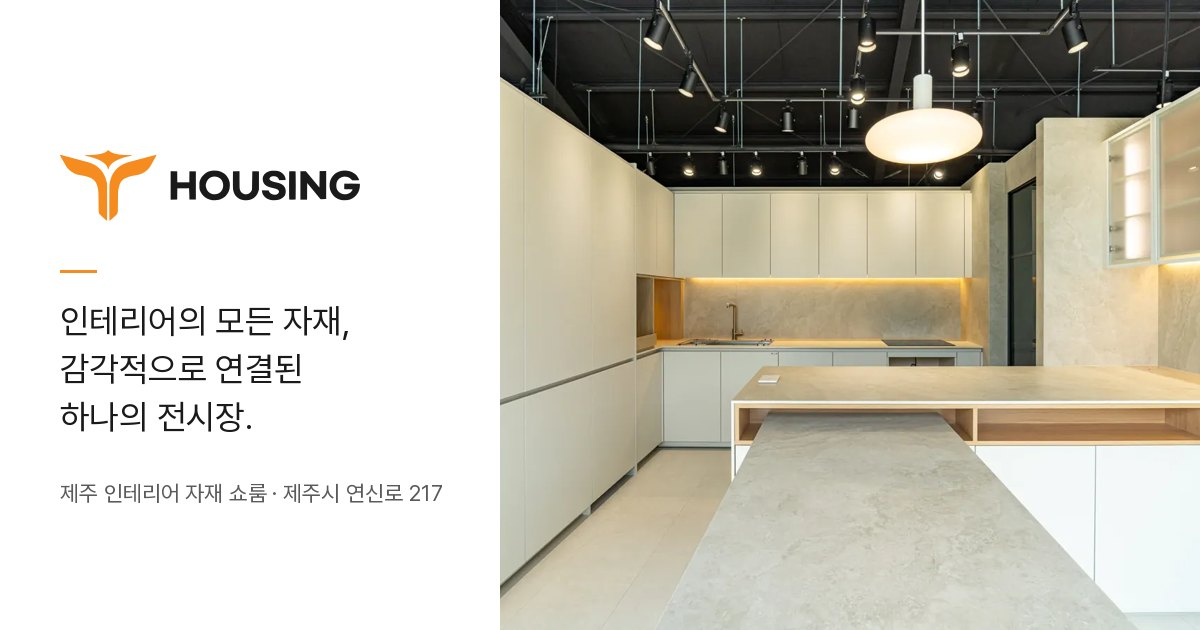
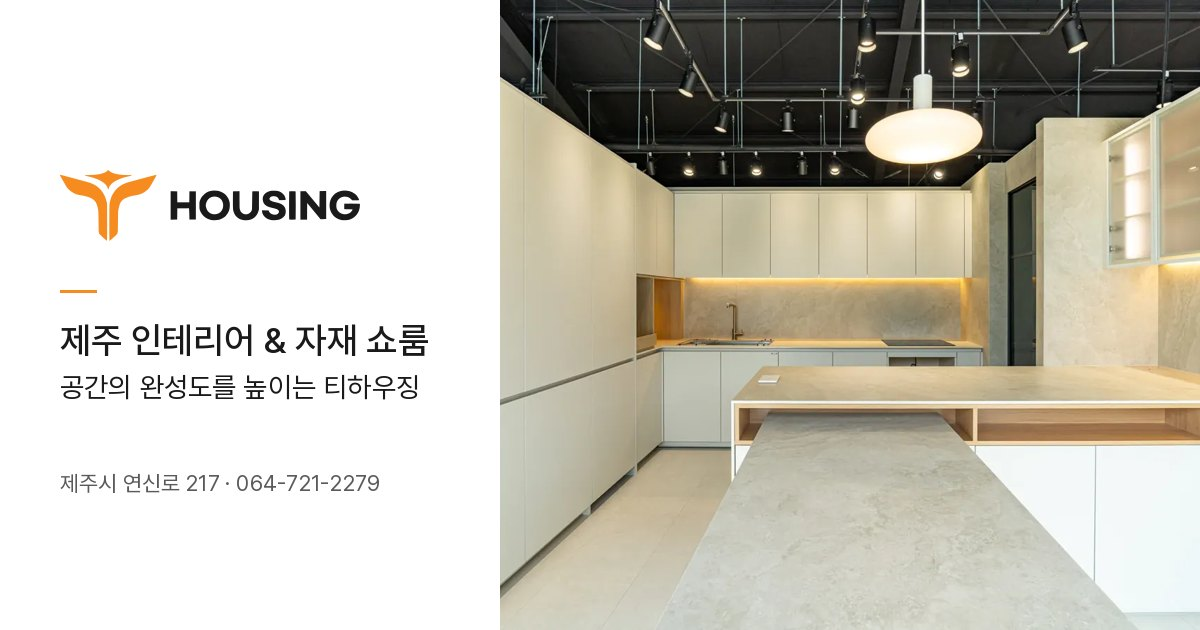
Add files via upload

Changed region(s): [[0.0308, 0.4222, 0.37, 0.6937], [0.0308, 0.2413, 0.3083, 0.3921], [0.0308, 0.754, 0.37, 0.8143]]

diff --git a/index.html b/index.html
@@ -5,13 +5,13 @@
 <script>document.documentElement.classList.add('js')</script>
 <meta name="viewport" content="width=device-width, initial-scale=1" />
 <title>티하우징 T-HOUSING | 제주 인테리어 자재 쇼룸 · 제주시 연신로 217</title>
-<meta name="description" content="인테리어의 모든 자재, 감각적으로 연결된 하나의 전시장. 제주 인테리어 시공과 자재 쇼룸 티하우징 — 주방, 욕실, 타일, 마루, 도어를 직접 보고 비교하세요. 제주시 연신로 217 · 064-721-2279" />
+<meta name="description" content="제주 인테리어 &amp; 자재 쇼룸, 공간의 완성도를 높이는 티하우징 — 주방, 욕실, 타일, 마루, 도어를 직접 보고 비교하세요. 제주시 연신로 217 · 064-721-2279" />
 <link rel="canonical" href="https://t-housing-sample.lgt3232.workers.dev/" />
 <meta property="og:type" content="website" />
 <meta property="og:locale" content="ko_KR" />
 <meta property="og:site_name" content="티하우징 T-HOUSING" />
 <meta property="og:title" content="티하우징 · 제주 인테리어 자재 쇼룸" />
-<meta property="og:description" content="인테리어의 모든 자재, 감각적으로 연결된 하나의 전시장." />
+<meta property="og:description" content="제주 인테리어 &amp; 자재 쇼룸 · 공간의 완성도를 높이는 티하우징" />
 <meta property="og:url" content="https://t-housing-sample.lgt3232.workers.dev/" />
 <meta property="og:image" content="https://t-housing-sample.lgt3232.workers.dev/og-th.jpg" />
 <meta property="og:image:width" content="1200" />
@@ -133,7 +133,7 @@ h2{ margin-top:10px; font-size:clamp(1.4rem, 4.8vw, 2rem); font-weight:600; line
 .care li h3{ margin-top:10px; font-size:1.1rem; font-weight:600; }
 .care li p{ margin-top:6px; color:var(--soft); font-size:.95rem; }
 .care .note{ margin-top:18px; font-size:.92rem; color:var(--soft); }
-.care .note.top{ margin:0 0 14px; font-size:.95rem; font-weight:500; color:var(--ink); }
+.care .note.pre{ margin:0 0 14px; font-size:.95rem; font-weight:500; color:var(--ink); }
 @media (min-width:640px){ .care ol{ grid-template-columns:minmax(0,1fr) minmax(0,1fr); } }
 @media (min-width:1024px){ .care .grid{ grid-template-columns:minmax(0,.9fr) minmax(0,1.1fr); gap:64px; align-items:center; } }
 
@@ -259,7 +259,7 @@ h2{ margin-top:10px; font-size:clamp(1.4rem, 4.8vw, 2rem); font-weight:600; line
         <p class="lead reveal">단순 자재 판매를 넘어, 당신의 공간이 완벽해질 때까지 함께합니다.</p>
       </div>
       <div>
-        <p class="note top reveal">자재 및 부분공사 계약 시, 혼자서는 해결하기 힘든 전문 영역을 지원합니다.</p>
+        <p class="note pre reveal">자재 및 부분공사 계약 시, 혼자서는 해결하기 힘든 전문 영역을 지원합니다.</p>
         <ol>
           <li class="reveal"><span class="n">01</span><h3>3D 인테리어 설계</h3><p>머릿속 상상을 스케치업 도면으로 <span class="nw">미리 확인</span></p></li>
           <li class="reveal"><span class="n">02</span><h3>현장 감리 &amp; 공정 체크</h3><p>전문가가 직접 현장을 챙겨 시공 <span class="nw">하자 예방</span></p></li>
@@ -307,7 +307,7 @@ h2{ margin-top:10px; font-size:clamp(1.4rem, 4.8vw, 2rem); font-weight:600; line
             <a class="btn" href="https://www.instagram.com/t.housing_official/" target="_blank" rel="noopener">인스타그램</a>
           </div>
         </div>
-        <iframe class="map reveal" title="티하우징 위치 지도" src="https://www.google.com/maps?q=%EC%A0%9C%EC%A3%BC%ED%8A%B9%EB%B3%84%EC%9E%90%EC%B9%98%EB%8F%84+%EC%A0%9C%EC%A3%BC%EC%8B%9C+%EC%97%B0%EC%8B%A0%EB%A1%9C+217&amp;z=17&amp;output=embed" loading="lazy" referrerpolicy="no-referrer-when-downgrade"></iframe>
+        <iframe class="map reveal" title="티하우징 위치 지도" src="https://www.google.com/maps?q=%EC%A0%9C%EC%A3%BC%EC%8B%9C+%EC%97%B0%EC%8B%A0%EB%A1%9C+217&amp;z=17&amp;output=embed" loading="lazy" referrerpolicy="no-referrer-when-downgrade"></iframe>
       </div>
     </div>
   </section>
